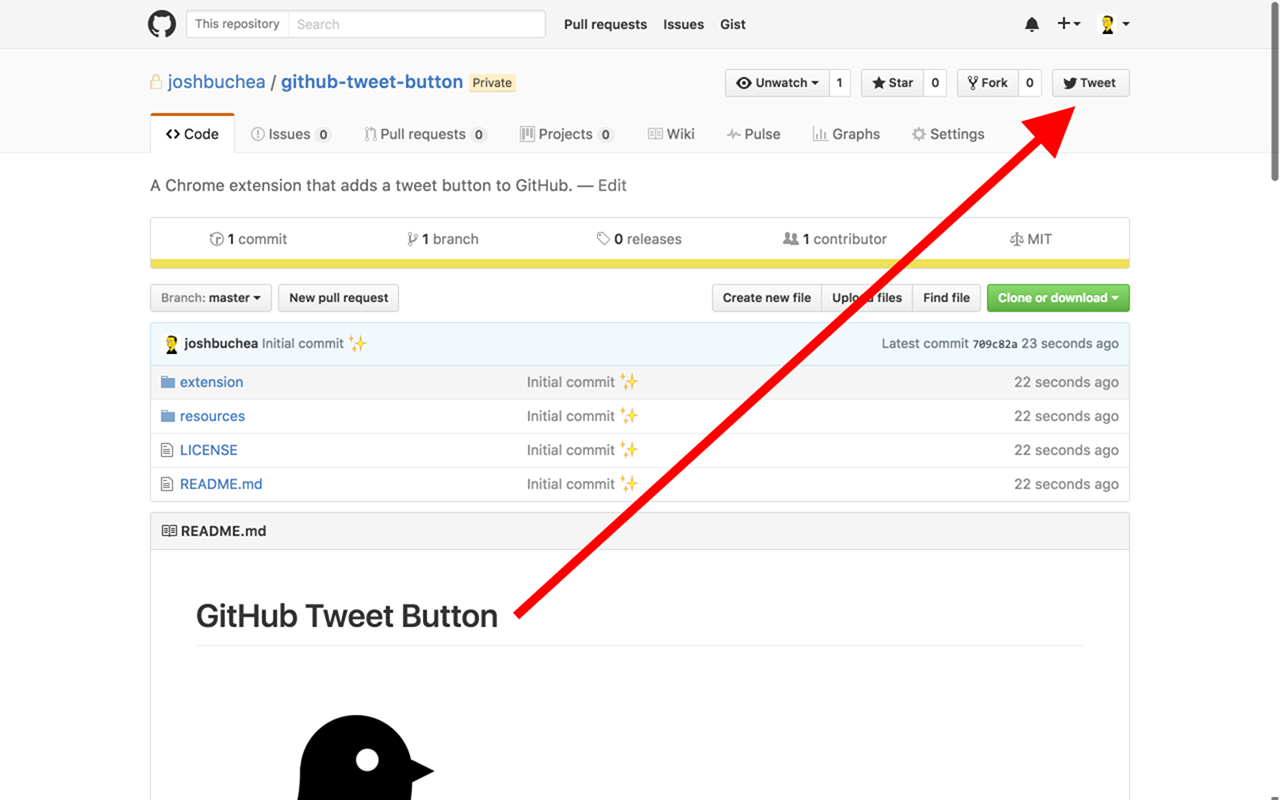
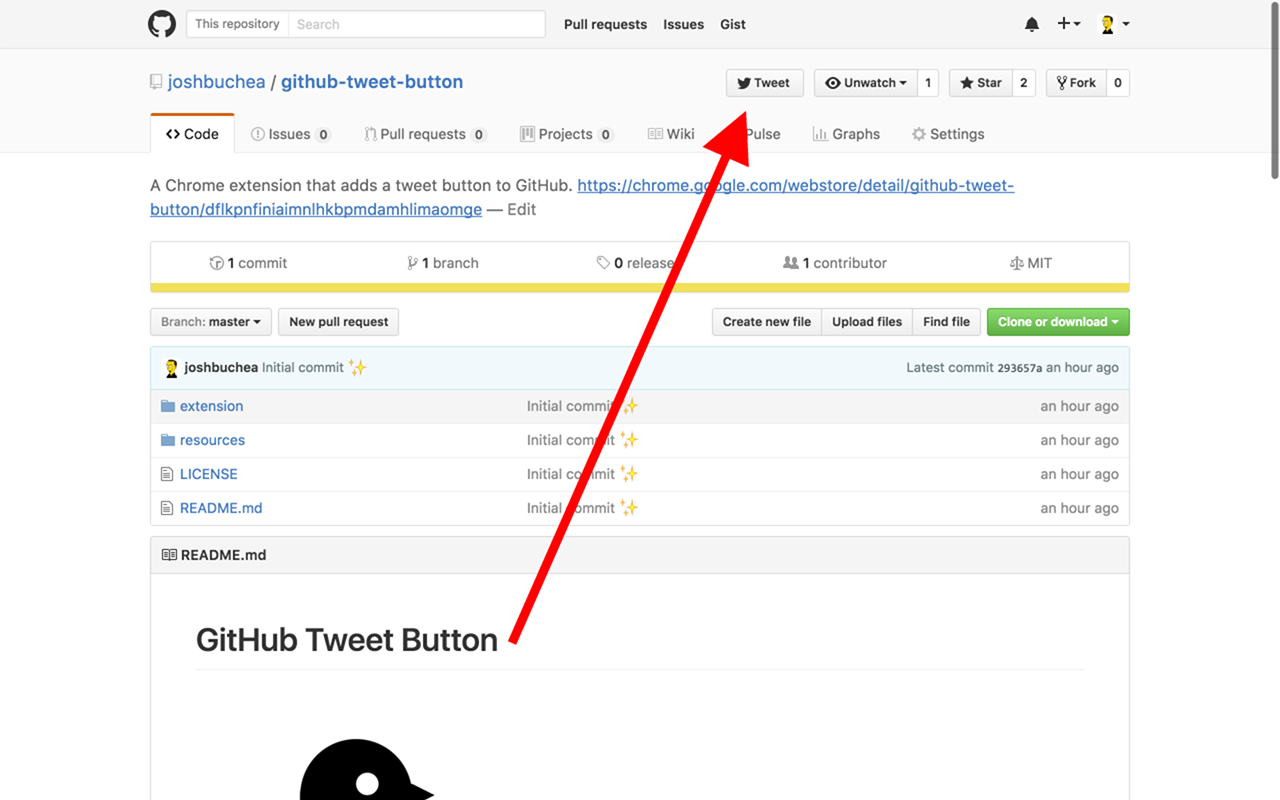
Move tweet button to left side

diff --git a/extension/tweet-button.js b/extension/tweet-button.js
@@ -19,6 +19,6 @@
     '</a>' +
   '</li>';
 
-  buttonList.innerHTML += button;
+  buttonList.innerHTML = button + buttonList.innerHTML;
 
 })();
